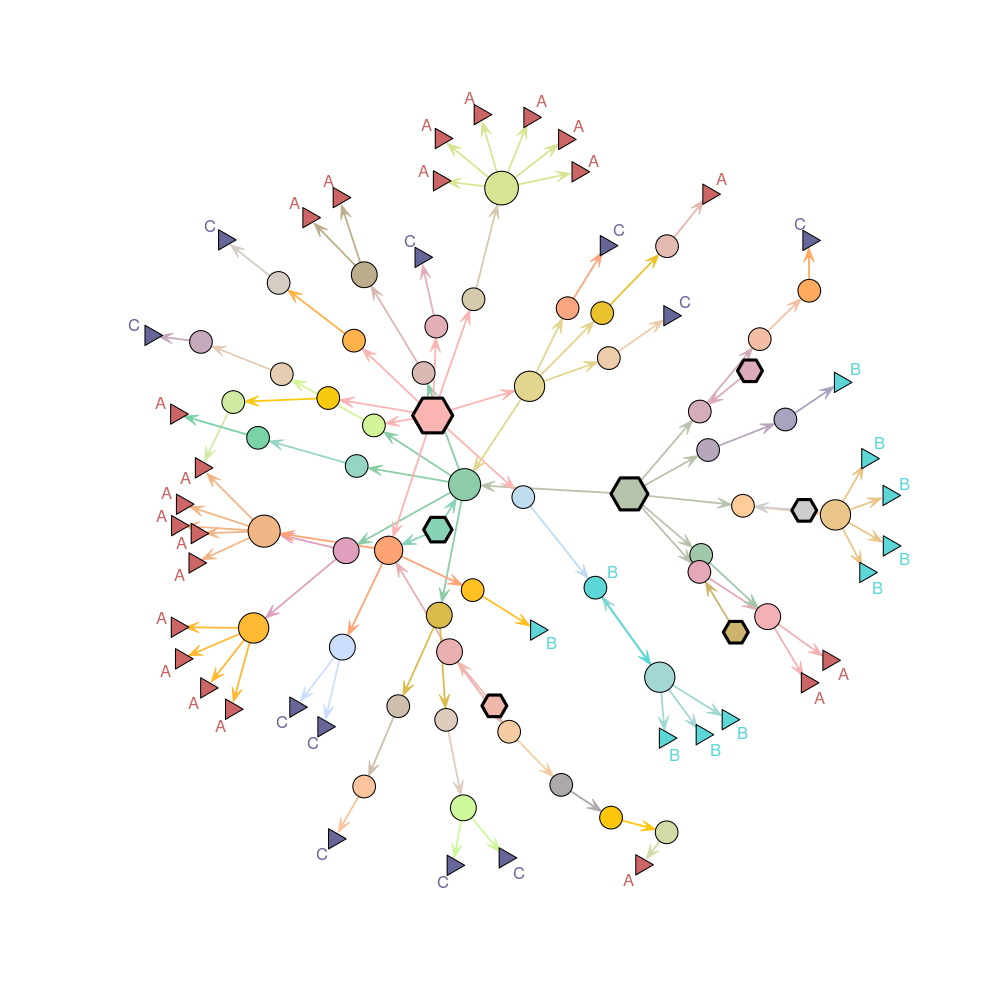
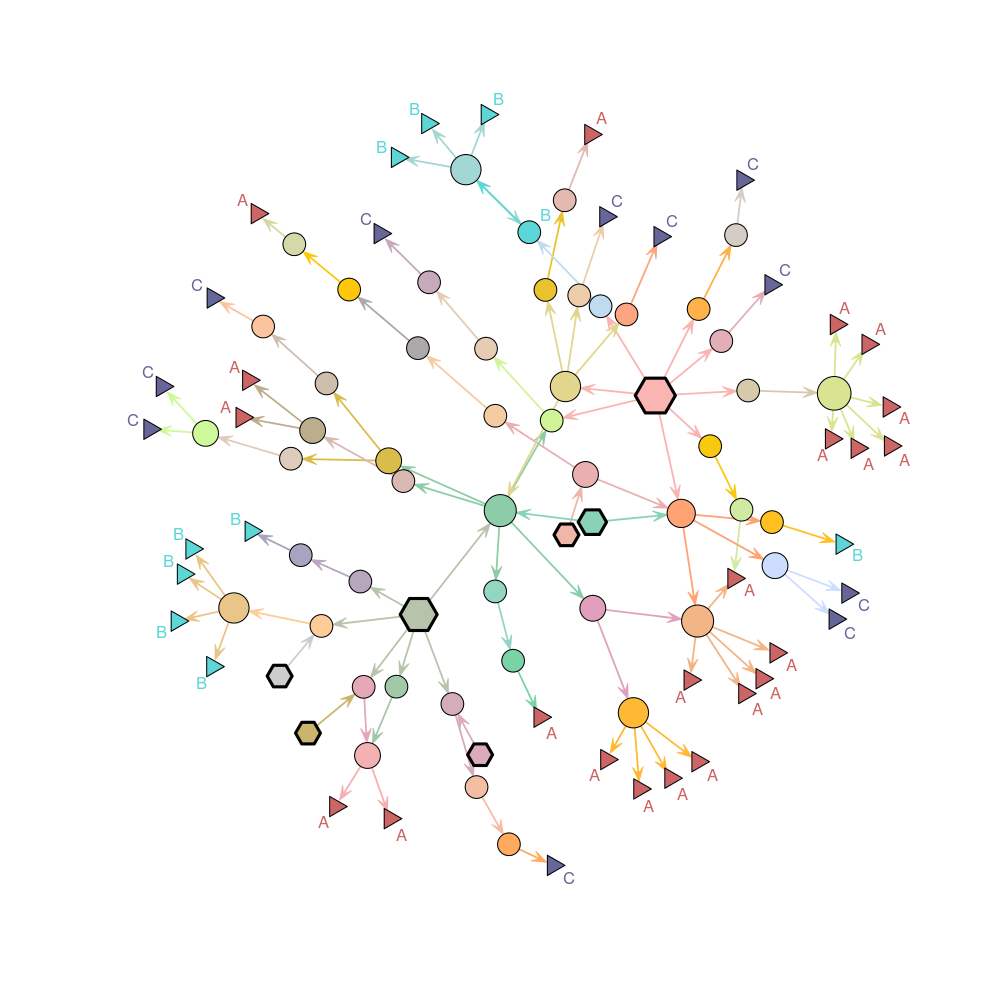
restoring old README

Changed region(s): [[0.124, 0.093, 0.899, 0.899], [0.682, 0.155, 0.775, 0.279]]

diff --git a/README.md b/README.md
@@ -3,40 +3,294 @@
 [![codecov.io](https://codecov.io/github/thibautjombart/dibbler/coverage.svg?branch=master)](https://codecov.io/github/thibautjombart/dibbler?branch=master)
 
 
-*dibbler*: investigation of food-borne disease outbreaks.
-=================================================
 
-> *And then you bit onto them, and learned once again that Cut-me-own-Throat Dibbler could find a
->   use for bits of an animal that the animal didn't know it had got. Dibbler had worked out that
->   with enough fried onions and mustard people would eat anything.*
-[Terry Pratchett, Moving Pictures.]
-
-*dibbler* provides tools for investigating food-borne outbreaks with (at least partly) known food distribution networks, and genetic information on the cases.
-This document provides an overview of the package's content.
-
-
-Installing *dibbler*
--------------
-To install the development version from github:
-
-```r
-library(devtools)
-install_github("thibautjombart/dibbler")
 ```
-
-The stable version can be installed from CRAN using:
-
-```r
-install.packages("dibbler")
-```
-
-Then, to load the package, use:
-
-```r
-library("dibbler")
+## Warning in options()$expression: partial match of 'expression' to
+## 'expressions'
 ```
 
 
-Browse documentation by topic
--------------
-- [introduction to *dibbler*](vignettes/dibbler.html)
+A short demo
+------------------
+Here is a short demonstration of the package using an anonymised Salmonella outbreak dataset.
+
+All we need to run the method is:
+1. a directed graph representing the **food network**, which can be provided as:
+  - a `data.frame` with two columns (to,from)
+  - a `igraph` object
+  - a `network` object
+2. a `factor` defining groups for some of the nodes of the network; this `factor` needs to be named, and the labels provided will be matched against the network.
+
+Here, all this information is contained in the *Salmonella* dataset:
+
+```r
+library(dibbler)
+names(Salmonella)
+```
+
+```
+## [1] "graph"   "cluster"
+```
+
+```r
+head(Salmonella$graph)
+```
+
+```
+##     from     to
+## 1 2e7967 dd73b6
+## 2 2e7967 c7cd02
+## 3 2e7967 2afba4
+## 4 2e7967 4df851
+## 5 2e7967 48f980
+## 6 2e7967 2d3187
+```
+
+```r
+Salmonella$cluster
+```
+
+```
+## d81c17 064974 3b712b 486c07 6f5824 c77a84 1f4d22 f951d8 44060b 905296 
+##      A      A      A      A      A      A      A      A      A      A 
+## b4e5d5 0fffca 78e5ba e45c54 ca432a 0b6e5a ef7028 732379 82b4fc 9199be 
+##      A      B      B      B      B      B      B      B      B      B 
+## cede47 9f5aad acf7bb 24876f 37aad9 1e7431 0b57e4 09f4a0 a6fcaf f59e4b 
+##      B      C      C      C      C      C      C      C      C      C 
+## 1b55d2 7d3df0 b08945 f80b2e efee6b 6e0643 252679 35a9b6 80afad 1569a5 
+##      C      C      A      A      A      A      A      A      A      A 
+## 161814 c09e12 38881f 
+##      A      A      A 
+## Levels: A B C
+```
+
+We build a `igraph` object from the list of edges:
+
+```r
+library(igraph)
+```
+
+```
+## 
+## Attaching package: 'igraph'
+```
+
+```
+## The following objects are masked from 'package:stats':
+## 
+##     decompose, spectrum
+```
+
+```
+## The following object is masked from 'package:testthat':
+## 
+##     compare
+```
+
+```
+## The following object is masked from 'package:base':
+## 
+##     union
+```
+
+```r
+g <- graph.data.frame(Salmonella$graph)
+g
+```
+
+```
+## IGRAPH DN-- 98 103 -- 
+## + attr: name (v/c)
+## + edges (vertex names):
+##  [1] 2e7967->dd73b6 2e7967->c7cd02 2e7967->2afba4 2e7967->4df851
+##  [5] 2e7967->48f980 2e7967->2d3187 cd48bf->e42c72 cd48bf->7d21f1
+##  [9] dd73b6->874918 7ba446->f83f2e 642cb4->327734 c7cd02->337cac
+## [13] 5b44d7->f7fc94 5b44d7->2fabc7 2afba4->5b44d7 2afba4->c1dc98
+## [17] 2afba4->b16cf0 2afba4->206e37 2afba4->958de8 fc7f8f->dd73b6
+## [21] 963c41->acf7bb 963c41->9f5aad f60e85->4941c6 4941c6->0b57e4
+## [25] 53d0b4->c7cd02 13dc78->0b6e5a 13dc78->78e5ba 13dc78->ca432a
+## [29] 13dc78->e45c54 9c0e59->80afad 6ddfa3->a7a903 3301f4->7ba446
+## + ... omitted several edges
+```
+
+Data from the network and the genetic cluster can be merged and checked using `dibbler.data`.
+The resulting object is a list with class `dibbler.input` with a dedicated plot method:
+
+```r
+dat <- dibbler.data(graph=g, group=Salmonella$cluster)
+names(dat)
+```
+
+```
+##  [1] "graph"          "group"          "lab.graph"      "lab.group"     
+##  [5] "lab.match"      "id.graph.match" "id.group.match" "id.terminal"   
+##  [9] "id.internal"    "id.basal"       "lab.terminal"   "lab.internal"  
+## [13] "lab.basal"
+```
+
+```r
+dat$graph
+```
+
+```
+## IGRAPH DN-- 98 103 -- 
+## + attr: name (v/c)
+## + edges (vertex names):
+##  [1] 2e7967->dd73b6 2e7967->c7cd02 2e7967->2afba4 2e7967->4df851
+##  [5] 2e7967->48f980 2e7967->2d3187 cd48bf->e42c72 cd48bf->7d21f1
+##  [9] dd73b6->874918 7ba446->f83f2e 642cb4->327734 c7cd02->337cac
+## [13] 5b44d7->f7fc94 5b44d7->2fabc7 2afba4->5b44d7 2afba4->c1dc98
+## [17] 2afba4->b16cf0 2afba4->206e37 2afba4->958de8 fc7f8f->dd73b6
+## [21] 963c41->acf7bb 963c41->9f5aad f60e85->4941c6 4941c6->0b57e4
+## [25] 53d0b4->c7cd02 13dc78->0b6e5a 13dc78->78e5ba 13dc78->ca432a
+## [29] 13dc78->e45c54 9c0e59->80afad 6ddfa3->a7a903 3301f4->7ba446
+## + ... omitted several edges
+```
+
+```r
+dat$group
+```
+
+```
+## d81c17 064974 3b712b 486c07 6f5824 c77a84 1f4d22 f951d8 44060b 905296 
+##      A      A      A      A      A      A      A      A      A      A 
+## b4e5d5 0fffca 78e5ba e45c54 ca432a 0b6e5a ef7028 732379 82b4fc 9199be 
+##      A      B      B      B      B      B      B      B      B      B 
+## cede47 9f5aad acf7bb 24876f 37aad9 1e7431 0b57e4 09f4a0 a6fcaf f59e4b 
+##      B      C      C      C      C      C      C      C      C      C 
+## 1b55d2 7d3df0 b08945 f80b2e efee6b 6e0643 252679 35a9b6 80afad 1569a5 
+##      C      C      A      A      A      A      A      A      A      A 
+## 161814 c09e12 38881f 
+##      A      A      A 
+## Levels: A B C
+```
+
+```r
+dat$lab.match
+```
+
+```
+##  [1] "0b6e5a" "acf7bb" "9f5aad" "0b57e4" "78e5ba" "ca432a" "e45c54"
+##  [8] "80afad" "cede47" "82b4fc" "732379" "9199be" "7d3df0" "c77a84"
+## [15] "6f5824" "3b712b" "1e7431" "37aad9" "44060b" "905296" "f951d8"
+## [22] "b4e5d5" "1b55d2" "a6fcaf" "24876f" "0fffca" "09f4a0" "38881f"
+## [29] "d81c17" "1569a5" "064974" "161814" "c09e12" "b08945" "f80b2e"
+## [36] "35a9b6" "6e0643" "efee6b" "252679" "f59e4b" "ef7028" "1f4d22"
+## [43] "486c07"
+```
+
+```r
+dat$id.basal
+```
+
+```
+## [1]  1  9 13 17 21 26 38
+```
+
+```r
+plot(dat)
+```
+
+<img src="vignettes/figs/input-1.png" title="plot of chunk input" alt="plot of chunk input" width="800px" height="800px" />
+
+The figure above shows terminal nodes as triangles, basal nodes as hexagons, and other nodes as circles.
+The size of internal nodes is proportional to the number of immediately descending nodes (out-degree).
+Annotation of the terminal nodes indicate genetic clusters.
+
+Alternatively, we can also use `vis.dibbler.data` which exploits the *visNetwork* package to plot interactive networks:
+
+```r
+vis.dibbler.data(dat)
+```
+
+<!--html_preserve--><div id="htmlwidget-9302" style="width:504px;height:504px;" class="visNetwork html-widget"></div>
+<script type="application/json" data-for="htmlwidget-9302">{"x":{"nodes":{"id":["2e7967","cd48bf","dd73b6","7ba446","642cb4","c7cd02","5b44d7","2afba4","fc7f8f","963c41","f60e85","4941c6","53d0b4","13dc78","9c0e59","6ddfa3","3301f4","874918","f46d1e","0b6e5a","c190fa","337cac","03eee3","c1dc98","a7a903","d2d08f","030327","6d4b91","76a432","7fa3b1","f83f2e","881955","e42c72","4df851","d4d75e","7be343","735807","238842","3e93ce","f7fc94","8e02f0","b16cf0","51ca98","81e071","dc72e8","4e2918","2fabc7","ad208a","48f980","24dba7","327734","4e8dc8","206e37","958de8","2d3187","7d21f1","acf7bb","9f5aad","0b57e4","78e5ba","ca432a","e45c54","80afad","cede47","82b4fc","732379","9199be","7d3df0","c77a84","6f5824","3b712b","1e7431","37aad9","44060b","905296","f951d8","b4e5d5","1b55d2","a6fcaf","24876f","0fffca","09f4a0","38881f","d81c17","1569a5","064974","161814","c09e12","b08945","f80b2e","35a9b6","6e0643","efee6b","252679","f59e4b","ef7028","1f4d22","486c07"],"label":["2e7967","cd48bf","dd73b6","7ba446","642cb4","c7cd02","5b44d7","2afba4","fc7f8f","963c41","f60e85","4941c6","53d0b4","13dc78","9c0e59","6ddfa3","3301f4","874918","f46d1e","0b6e5a","c190fa","337cac","03eee3","c1dc98","a7a903","d2d08f","030327","6d4b91","76a432","7fa3b1","f83f2e","881955","e42c72","4df851","d4d75e","7be343","735807","238842","3e93ce","f7fc94","8e02f0","b16cf0","51ca98","81e071","dc72e8","4e2918","2fabc7","ad208a","48f980","24dba7","327734","4e8dc8","206e37","958de8","2d3187","7d21f1","acf7bb","9f5aad","0b57e4","78e5ba","ca432a","e45c54","80afad","cede47","82b4fc","732379","9199be","7d3df0","c77a84","6f5824","3b712b","1e7431","37aad9","44060b","905296","f951d8","b4e5d5","1b55d2","a6fcaf","24876f","0fffca","09f4a0","38881f","d81c17","1569a5","064974","161814","c09e12","b08945","f80b2e","35a9b6","6e0643","efee6b","252679","f59e4b","ef7028","1f4d22","486c07"],"group":["internal","internal","internal","internal","internal","internal","internal","internal","internal","internal","internal","internal","internal","internal","internal","internal","internal","internal","internal","B","internal","internal","internal","internal","internal","internal","internal","internal","internal","internal","internal","internal","internal","internal","internal","internal","internal","internal","internal","internal","internal","internal","internal","internal","internal","internal","internal","internal","internal","internal","internal","internal","internal","internal","internal","internal","C","C","C","B","B","B","A","B","B","B","B","C","A","A","A","C","C","A","A","A","A","C","C","C","B","C","A","A","A","A","A","A","A","A","A","A","A","A","C","B","A","A"],"shape":["diamond","dot","dot","dot","dot","dot","dot","dot","diamond","dot","dot","dot","diamond","dot","dot","dot","diamond","dot","dot","dot","diamond","dot","dot","dot","dot","diamond","dot","dot","dot","dot","dot","dot","dot","dot","dot","dot","dot","diamond","dot","dot","dot","dot","dot","dot","dot","dot","dot","dot","dot","dot","dot","dot","dot","dot","dot","dot","triangle","triangle","triangle","triangle","triangle","triangle","triangle","triangle","triangle","triangle","triangle","triangle","triangle","triangle","triangle","triangle","triangle","triangle","triangle","triangle","triangle","triangle","triangle","triangle","triangle","triangle","triangle","triangle","triangle","triangle","triangle","triangle","triangle","triangle","triangle","triangle","triangle","triangle","triangle","triangle","triangle","triangle"],"value":[6,2,1,1,1,1,2,5,1,2,1,1,1,4,1,1,8,4,1,1,1,2,1,2,1,1,2,1,4,1,1,4,1,1,1,1,1,2,1,1,6,1,2,5,1,1,1,1,1,1,1,1,1,1,1,3,0,0,0,0,0,0,0,0,0,0,0,0,0,0,0,0,0,0,0,0,0,0,0,0,0,0,0,0,0,0,0,0,0,0,0,0,0,0,0,0,0,0]},"edges":{"from":["2e7967","2e7967","2e7967","2e7967","2e7967","2e7967","cd48bf","cd48bf","dd73b6","7ba446","642cb4","c7cd02","5b44d7","5b44d7","2afba4","2afba4","2afba4","2afba4","2afba4","fc7f8f","963c41","963c41","f60e85","4941c6","53d0b4","13dc78","13dc78","13dc78","13dc78","9c0e59","6ddfa3","3301f4","3301f4","3301f4","3301f4","3301f4","3301f4","3301f4","3301f4","874918","874918","874918","874918","f46d1e","0b6e5a","c190fa","337cac","337cac","03eee3","c1dc98","c1dc98","a7a903","d2d08f","030327","030327","6d4b91","76a432","76a432","76a432","76a432","7fa3b1","f83f2e","881955","881955","881955","881955","e42c72","4df851","d4d75e","7be343","735807","238842","238842","3e93ce","f7fc94","8e02f0","8e02f0","8e02f0","8e02f0","8e02f0","8e02f0","b16cf0","51ca98","51ca98","81e071","81e071","81e071","81e071","81e071","dc72e8","4e2918","2fabc7","ad208a","48f980","24dba7","327734","4e8dc8","206e37","958de8","2d3187","7d21f1","7d21f1","7d21f1"],"to":["dd73b6","c7cd02","2afba4","4df851","48f980","2d3187","e42c72","7d21f1","874918","f83f2e","327734","337cac","f7fc94","2fabc7","5b44d7","c1dc98","b16cf0","206e37","958de8","dd73b6","acf7bb","9f5aad","4941c6","0b57e4","c7cd02","0b6e5a","78e5ba","ca432a","e45c54","80afad","a7a903","7ba446","03eee3","6d4b91","881955","3e93ce","ad208a","958de8","7d21f1","cede47","82b4fc","732379","9199be","7d3df0","13dc78","48f980","c77a84","6f5824","0b6e5a","76a432","81e071","3b712b","cd48bf","1e7431","37aad9","9c0e59","44060b","905296","f951d8","b4e5d5","1b55d2","a6fcaf","642cb4","2afba4","f46d1e","7fa3b1","4e8dc8","4e2918","7be343","24876f","0fffca","2afba4","7d21f1","09f4a0","963c41","38881f","d81c17","1569a5","064974","161814","c09e12","51ca98","b08945","f80b2e","80afad","35a9b6","6e0643","efee6b","252679","f59e4b","ef7028","dc72e8","8e02f0","d4d75e","1f4d22","486c07","6ddfa3","24dba7","f60e85","337cac","030327","735807","81e071"],"arrows":["to","to","to","to","to","to","to","to","to","to","to","to","to","to","to","to","to","to","to","to","to","to","to","to","to","to","to","to","to","to","to","to","to","to","to","to","to","to","to","to","to","to","to","to","to","to","to","to","to","to","to","to","to","to","to","to","to","to","to","to","to","to","to","to","to","to","to","to","to","to","to","to","to","to","to","to","to","to","to","to","to","to","to","to","to","to","to","to","to","to","to","to","to","to","to","to","to","to","to","to","to","to","to"],"color":["#ffbf80","#ffbf80","#ffbf80","#ffbf80","#ffbf80","#ffbf80","#ffbf80","#ffbf80","#ffbf80","#ffbf80","#ffbf80","#ffbf80","#ffbf80","#ffbf80","#ffbf80","#ffbf80","#ffbf80","#ffbf80","#ffbf80","#ffbf80","#ffbf80","#ffbf80","#ffbf80","#ffbf80","#ffbf80","#ffbf80","#ffbf80","#ffbf80","#ffbf80","#ffbf80","#ffbf80","#ffbf80","#ffbf80","#ffbf80","#ffbf80","#ffbf80","#ffbf80","#ffbf80","#ffbf80","#ffbf80","#ffbf80","#ffbf80","#ffbf80","#ffbf80","#ffbf80","#ffbf80","#ffbf80","#ffbf80","#ffbf80","#ffbf80","#ffbf80","#ffbf80","#ffbf80","#ffbf80","#ffbf80","#ffbf80","#ffbf80","#ffbf80","#ffbf80","#ffbf80","#ffbf80","#ffbf80","#ffbf80","#ffbf80","#ffbf80","#ffbf80","#ffbf80","#ffbf80","#ffbf80","#ffbf80","#ffbf80","#ffbf80","#ffbf80","#ffbf80","#ffbf80","#ffbf80","#ffbf80","#ffbf80","#ffbf80","#ffbf80","#ffbf80","#ffbf80","#ffbf80","#ffbf80","#ffbf80","#ffbf80","#ffbf80","#ffbf80","#ffbf80","#ffbf80","#ffbf80","#ffbf80","#ffbf80","#ffbf80","#ffbf80","#ffbf80","#ffbf80","#ffbf80","#ffbf80","#ffbf80","#ffbf80","#ffbf80","#ffbf80"]},"options":{"width":"100%","height":"100%","nodes":{"shape":"dot","borderWidth":2},"manipulation":{"enabled":true},"groups":{"internal":{"color":"#ffbf80"},"A":{"color":"#CC6666"},"B":{"color":"#5CD6D6"},"useDefaultGroups":true,"C":{"color":"#666699"}}},"groups":["internal","B","C","A"],"width":null,"height":null,"idselection":{"enabled":false,"style":"width: 150px; height: 26px"},"byselection":{"enabled":true,"style":"width: 150px; height: 26px","variable":"group","values":["A","B","C","internal"]},"legend":{"width":0.2,"useGroups":true,"position":"left"},"datacss":"table.legend_table {\n  font-size: 11px;\n  border-width:1px;\n  border-color:#d3d3d3;\n  border-style:solid;\n}\ntable.legend_table,td {\n  border-width:1px;\n  border-color:#d3d3d3;\n  border-style:solid;\n  padding: 2px;\n}\ndiv.table_content {\n  width:80px;\n  text-align:center;\n}\ndiv.table_description {\n  width:100px;\n}\n\n#operation {\n  font-size:28px;\n}\n#network-popUp {\n  display:none;\n  z-index:299;\n  width:250px;\n  height:150px;\n  background-color: #f9f9f9;\n  border-style:solid;\n  border-width:3px;\n  border-color: #5394ed;\n  padding:10px;\n  text-align: center;\n  position:fixed;\n  top:50%;  \n  left:50%;  \n  margin:-100px 0 0 -100px;  \n\n}","highlight":false,"degree":1},"evals":[],"jsHooks":[]}</script><!--/html_preserve-->
+
+We can now run `dibbler` on the data, and examine the output.
+
+The output items are:
+- `$freq`: a list containing vectors of **estimated cluster frequencies** for each internal node of the graph
+- `$conf`: a vector containing **confidence indices** for the estimates at each node; these are defined as the proportion of terminal nodes in the tree spanning from the node.
+- `$graph`: an `igraph` object containing the above information in addition to the original network
+
+The graph represent the inferred genetic composition of potential contamination using pie charts for each internal node. The size of the symbol is proportional to the 'confidence' associated to this give node.
+
+```r
+out <- dibbler(dat)
+names(out)
+```
+
+```
+## [1] "freq"  "conf"  "graph"
+```
+
+```r
+head(out$freq)
+```
+
+```
+## $`2e7967`
+## 
+##      A      B      C 
+## 0.5833 0.2083 0.2083 
+## 
+## $cd48bf
+## 
+##      A      B      C 
+## 0.6667 0.1111 0.2222 
+## 
+## $dd73b6
+## 
+## A B C 
+## 0 1 0 
+## 
+## $`7ba446`
+## 
+## A B C 
+## 0 0 1 
+## 
+## $`642cb4`
+## 
+## A B C 
+## 1 0 0 
+## 
+## $c7cd02
+## 
+## A B C 
+## 1 0 0
+```
+
+```r
+head(out$conf)
+```
+
+```
+## 2e7967 cd48bf dd73b6 7ba446 642cb4 c7cd02 
+## 0.4706 0.5000 0.6667 0.3333 0.3333 0.5000
+```
+
+```r
+out$graph
+```
+
+```
+## IGRAPH DN-- 98 103 -- 
+## + attr: layout (g/n), name (v/c), shape (v/c), pie (v/x),
+## | pie.color (v/x), size (v/n), label.family (v/c), label.color
+## | (v/c)
+## + edges (vertex names):
+##  [1] 2e7967->dd73b6 2e7967->c7cd02 2e7967->2afba4 2e7967->4df851
+##  [5] 2e7967->48f980 2e7967->2d3187 cd48bf->e42c72 cd48bf->7d21f1
+##  [9] dd73b6->874918 7ba446->f83f2e 642cb4->327734 c7cd02->337cac
+## [13] 5b44d7->f7fc94 5b44d7->2fabc7 2afba4->5b44d7 2afba4->c1dc98
+## [17] 2afba4->b16cf0 2afba4->206e37 2afba4->958de8 fc7f8f->dd73b6
+## [21] 963c41->acf7bb 963c41->9f5aad f60e85->4941c6 4941c6->0b57e4
+## + ... omitted several edges
+```
+
+```r
+plot(out$graph, vertex.label="")
+```
+
+<img src="vignettes/figs/dibbler-1.png" title="plot of chunk dibbler" alt="plot of chunk dibbler" width="800px" height="800px" />
+
